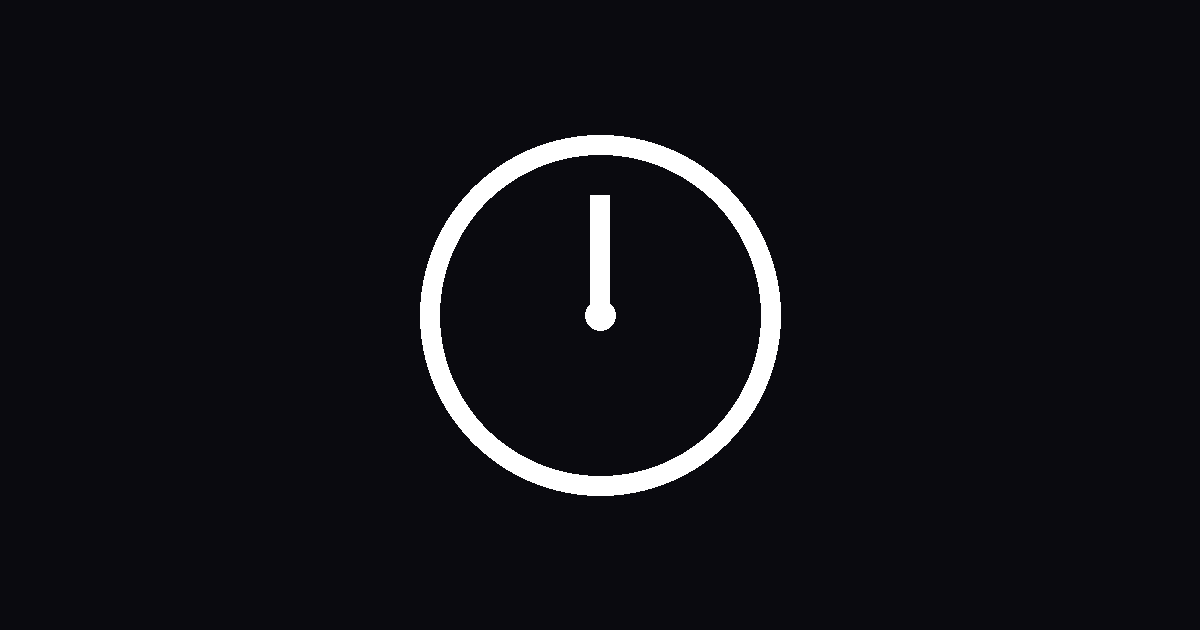
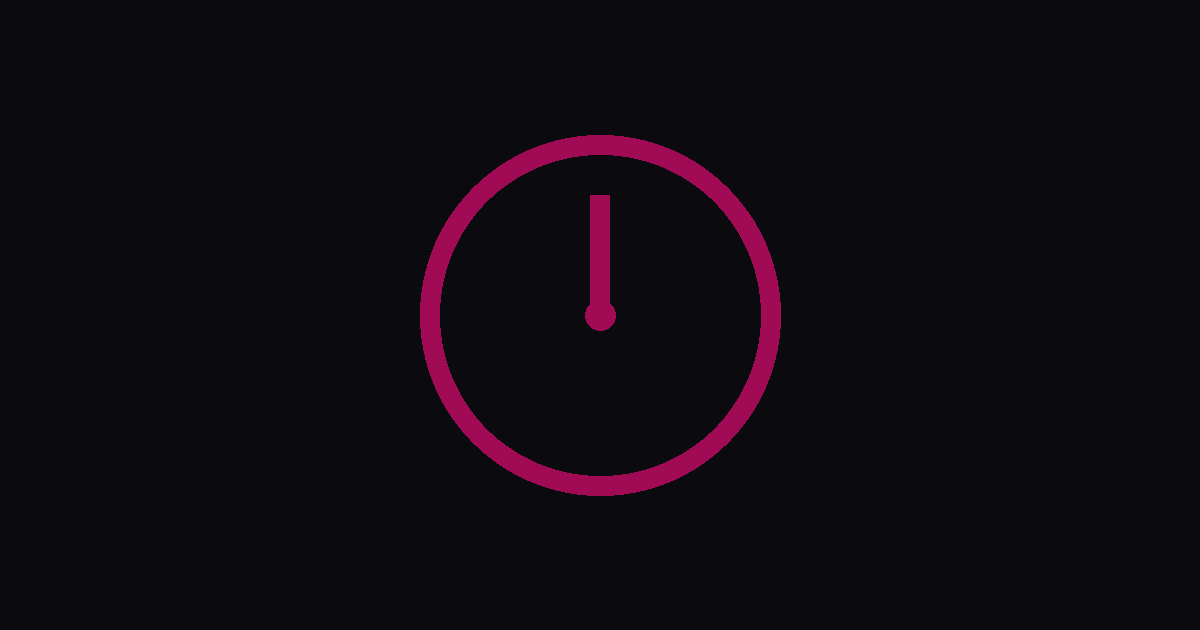
v3.0

Changed region(s): [[0.3392, 0.2111, 0.6783, 0.7841], [0.4625, 0.3016, 0.5242, 0.5429]]

diff --git a/app.js b/app.js
@@ -350,6 +350,10 @@ const App = {
       this.pause();
     } else if (this.state === TimerState.OVERTIME || this.state === TimerState.BREAK_OVERTIME) {
       this.skip();
+    } else if (this.state === TimerState.PAUSED) {
+      this.resume();
+    } else if (this.state === TimerState.BREAK_PAUSED) {
+      this.resumeBreak();
     } else {
       this.play();
     }
@@ -360,7 +364,7 @@ const App = {
       this.state = TimerState.PAUSED;
       clearInterval(this.timerInterval);
       this.timerInterval = null;
-      // Store the elapsed time so we can resume from here
+      // Store elapsed time so we can resume exactly from here
       this.pausedElapsed = (Date.now() - this.timerStartTime) / 1000;
       this.updateUI();
       this.updateTitle();
@@ -379,7 +383,7 @@ const App = {
   resume() {
     if (this.state === TimerState.PAUSED) {
       this.state = TimerState.RUNNING;
-      // Resume from where we paused by adjusting timerStartTime
+      // Resume from exact paused point by adjusting timerStartTime
       this.timerStartTime = Date.now() - this.pausedElapsed * 1000;
       this.startTimer();
       this.updateUI();
@@ -432,7 +436,7 @@ const App = {
         showToast('Session ended', 'info');
       }
     } else {
-      // End break - reset to idle and ready for next work
+      // End break - reset to idle
       if (this.currentBreak) {
         this.currentBreak.duration = Math.round(this.currentBreak.duration);
         Storage.saveSession({ ...this.currentBreak });
@@ -584,7 +588,8 @@ const App = {
       }
 
       const otSecond = Math.floor(this.overtime);
-      if (otSecond !== this._lastOtSecond && otSecond > 0 && otSecond % 5 === 0) {
+      // Play sound at exactly 5, 10, 15, 20... seconds of overtime
+      if (otSecond > 0 && otSecond % 5 === 0 && otSecond !== this._lastOtSecond) {
         AudioEngine.playOvertime();
         this._lastOtSecond = otSecond;
       }
@@ -604,7 +609,6 @@ const App = {
       AudioEngine.playEnd();
       showToast('Work block complete! Tap Rate to finish.', 'warning');
 
-      // Keep session alive for overtime tracking
       if (this.currentSession) {
         this.currentSession.duration = Math.round(this.currentSession.duration);
       }

diff --git a/style.css b/style.css
@@ -1224,6 +1224,12 @@ kbd {
     display: none;
   }
 
+  .control-btn .control-icon-wrap {
+    display: flex !important;
+    align-items: center;
+    justify-content: center;
+  }
+
   .control-btn {
     min-width: 56px;
     padding: 14px;
@@ -1342,6 +1348,7 @@ kbd {
   .stats-grid .stat-card {
     flex: 1 1 calc(50% - 6px);
     min-width: 120px;
+    box-sizing: border-box;
   }
 
   @supports (display: grid) {